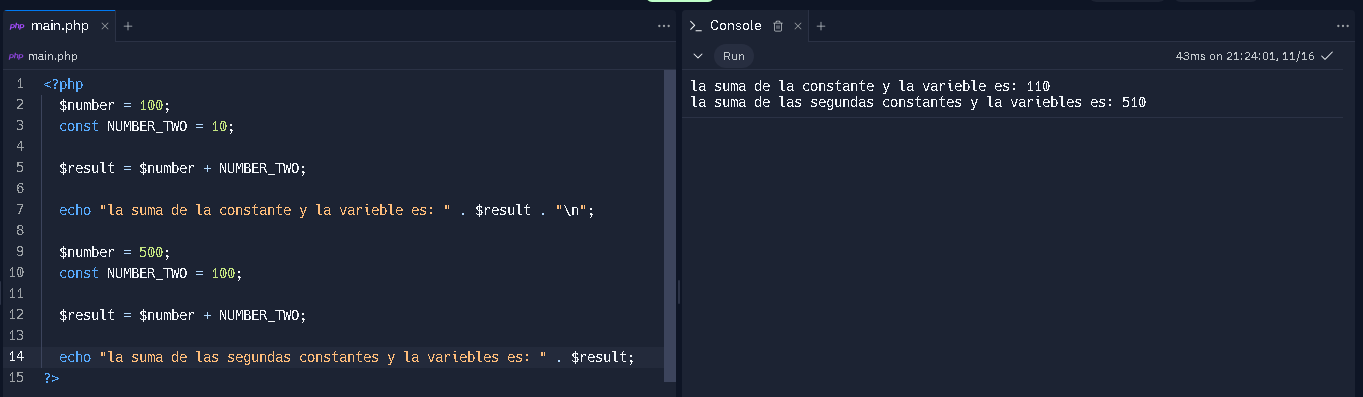
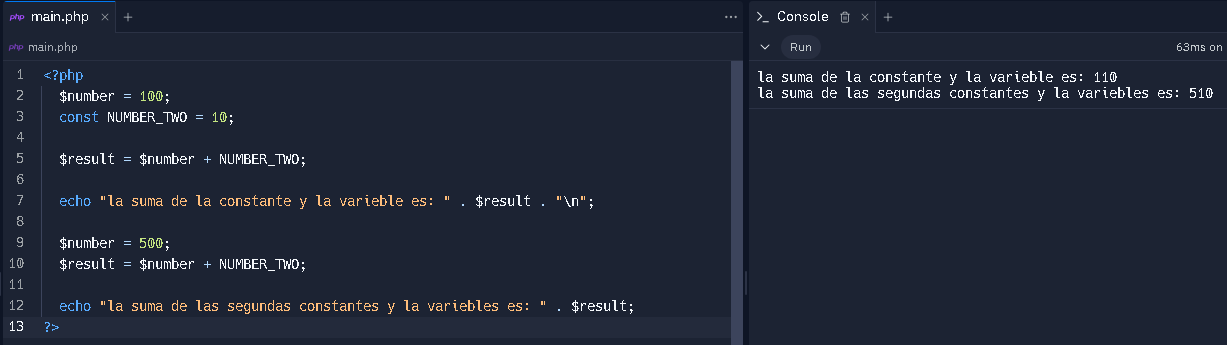
Creacion puntos 1-2-3-4-5-6-7-8-9-10

diff --git a/punto-7/index.php b/punto-7/index.php
@@ -1,0 +1,59 @@
+<?php
+  $operacionOp = 0;
+  $numberOne = 0;
+  $numberTwo = 0;
+
+  echo "Digite La operacion de acuerdo a: \n";
+  echo "1. Sumar \n";
+  echo "2. Restar \n";
+  echo "3. Multiplicar \n";
+  echo "4. Dividir \n";
+  echo "5. Salir \n";
+  echo "ingrece la opcion:";
+
+  $operacionOp = readline();
+
+  switch($operacionOp) {
+    case 1:
+    echo "A seleccionado la opcion suma \n";
+    echo "Ingrese el primer numero: ";
+    $numberOne = readline();
+    echo "Ingrese el segundo numero: ";
+    $numberTwo = readline();
+    $result = $numberOne + $numberTwo;
+    break;
+    case 2:
+    echo "A seleccionado la opcion resta \n";
+    echo "Ingrese el primer numero: ";
+    $numberOne = readline();
+    echo "Ingrese el segundo numero: ";
+    $numberTwo = readline();
+    $result = $numberOne - $numberTwo;
+    break;
+    case 3:
+    echo "A seleccionado la opcion Multiplicacion \n";
+    echo "Ingrese el primer numero: ";
+    $numberOne = readline();
+    echo "Ingrese el segundo numero: ";
+    $numberTwo = readline();
+    $result = $numberOne * $numberTwo;
+      break;
+    case 4:
+    echo "A seleccionado la opcion resta \n";
+    echo "Ingrese el primer numero: ";
+    $numberOne = readline();
+    echo "Ingrese el segundo numero: ";
+    $numberTwo = readline();
+    $result = $numberOne + $numberTwo;
+    break;
+    case 5:
+    echo "A seleccionado la opcion Divición \n";
+    echo "Ingrese el primer numero: ";
+    $numberOne = readline();
+    echo "Ingrese el segundo numero: ";
+    $numberTwo = readline();
+    $result = $numberOne / $numberTwo;
+    break;
+  }
+  echo "el resultado de la operacion es: " . $result;
+?>

diff --git a/punto-8/index.php b/punto-8/index.php
@@ -1,0 +1,33 @@
+<?php
+  const TICKET_PRICE = 25000;
+  $personNumber = 0;
+  $memberShip = "";
+
+  echo "Bienvenido a la Bolera (A caballo regalado no le mires el dentado.) \n";
+  echo "Ingresa tu membresia (A, B, C , D) \n";
+
+  echo "Ingresa el numero de personas a ingresar:";
+  $personNumber = readline();
+
+  echo "Ingresa el tipo de membresia: ";
+  $memberShip= readline();
+
+  $result = $personNumber * TICKET_PRICE;
+
+  switch($memberShip) {
+    case "A":
+    echo "Tu descuento es de con membresia A (30%) es: $" . number_format($result * 0.7);
+    break;
+    case "B":
+    echo "Tu descuento es de con membresia B (25%) es: $" . number_format($result * 0.75);
+    break;
+    case "C":
+    echo "Tu descuento es de con membresia C (10%) es: $" . number_format($result * 0.9);
+    break;
+    case "D":
+    echo "Tu descuento es de con membresia D (5%) es: $" . number_format($result * 0.95);
+    break;
+    default:
+    echo "Su tipo de afiliación no tiene descuento, Total a pagar: $" . number_format($totalPay);
+  }
+?>

diff --git a/punto-5/index.php b/punto-5/index.php
@@ -1,0 +1,21 @@
+<?php
+  const TICKET_PRICE = 25000;
+  $personNumber = 0;
+  $memberShip = "";
+
+  echo "Ingresa el numero de personas a ingresar:";
+  $personNumber = readline();
+
+  echo "Ingresa el tipo de membresia: ";
+  $memberShip= readline();
+
+  $resultDis = $personNumber * TICKET_PRICE;
+
+  if (strtoupper($memberShip) == "A") {
+    $resultDis = $resultDis * 0.3;
+  } else if (strtoupper($memberShip) == "B") {
+    $resultDis = $resultDis * 0.3;
+  }
+  
+  echo "El total a pagar es $" . number_format($resultDis);
+?>

diff --git a/punto-6/index.php b/punto-6/index.php
@@ -1,0 +1,15 @@
+<?php
+  $name = "";
+  $years = 0;
+
+  echo "Ingresa tu nombre: ";
+  $name = readline();
+  echo "Ingresa tu edad: ";
+  $years = readline();
+
+  if ( $years >= 18 ) {
+    echo "Hola " . $name . " tienes " . $years . " años " . "Eres mayor de edad";
+  }else if( $years < 18 ) {
+    echo "lo sineto no eres mayor de edad (edad requerida 18 años en adelante)";
+  }
+?>

diff --git a/punto-3/index.php b/punto-3/index.php
@@ -1,0 +1,13 @@
+<?php
+  $numberOne = 0;
+  $numberTwo = 0;
+
+  echo "Ingresa el primer numero a:";
+  $numberOne = readline();
+  echo "Ingresa el primer segundo:";
+  $numberTwo = readline();
+
+  $result = $numberOne + $numberTwo;
+
+  echo "El la suma de:" . $numberOne . " + " . $numberTwo . " es: " . $result;
+?>

diff --git a/punto-4/index.php b/punto-4/index.php
@@ -1,0 +1,11 @@
+<?php
+  $nameUser = "";
+  $lastname = "";
+
+  echo "Ingresa tu nombre: ";
+  $nameUser = readline();
+  echo "ingresa tu apellido: ";
+  $lastname = readline();
+
+  echo "Bienvenido de nuevo: " . $nameUser . " " . $lastname;
+?>

diff --git a/punto-2/index.php b/punto-2/index.php
@@ -7,8 +7,6 @@
   echo "la suma de la constante y la varieble es: " . $result . "\n";
 
   $number = 500;
-  const NUMBER_TWO = 100;
-
   $result = $number + NUMBER_TWO;
 
   echo "la suma de las segundas constantes y la variebles es: " . $result;

diff --git a/punto-9/index.php b/punto-9/index.php
@@ -1,0 +1,12 @@
+<?php
+  $number = 0;
+  $i = 0;
+  echo "Digite el numero a multiplicar:";
+  $number = readline();
+
+  while ($i <= 30) {
+    $result = $number * $i;
+    echo $number . " x " . $i . " = " . $result . "\n";
+    $i++;
+  }
+?>

diff --git a/punto-10/index.php b/punto-10/index.php
@@ -1,0 +1,10 @@
+<?php
+  $a = 2;
+  $sum = 0;
+
+  while ($a <= 100) {
+    echo $a . "\n";
+    $sum += $a;
+    $a += 2;
+  }
+?>

diff --git a/README.md b/README.md
@@ -14,19 +14,37 @@
 
 <h2>Punto 3: suma de dos numeros indicados por el usuario</h2>
 
+<img src="./public/images/punto-3.png" alt="punto-3">
+
 <h2>Punto 4: Datos del usuario en consola </h2>
+
+<img src="./public/images/punto-4.png" alt="punto-4">
 
 <h2>Punto 5: Entrada de bolera usando if else</h2>
 
+<img src="./public/images/punto-5.png" alt="punto-5">
+
 <h2>Punto 6: Detenccion de mayoria de edad</h2>
+
+<img src="./public/images/punto-6.png" alt="punto-6">
 
 <h2>Punto 7: Seleccion de operacion aritmetica</h2>
 
+<img src="./public/images/punto-7.png" alt="punto-7">
+
 <h2>Punto 8: Entrada de bolera usuando Swith</h2>
+
+<img src="./public/images/punto-8.png" alt="punto-8">
+<img src="./public/images/punto-8_1.png" alt="punto-8">
+<img src="./public/images/punto-8_2.png" alt="punto-8">
 
 <h2>Punto 9: Tabla de multiplicar usando while</h2>
 
+<img src="./public/images/punto-9.png" alt="punto-9">
+
 <h2>Punto 10: Números pares usando while</h2>
+
+<img src="./public/images/punto-10.png" alt="punto-10">
 
 <h2>Punto 11: Números impares usando for</h2>
 
